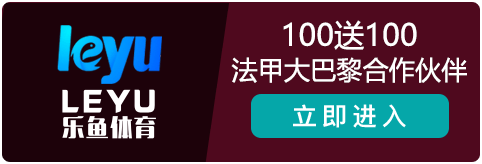
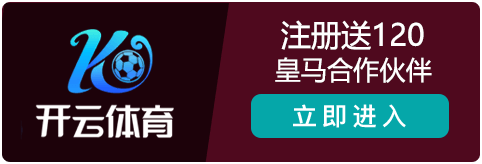
22

Changed region(s): [[0.0622, 0.1524, 0.3734, 0.8537], [0.4668, 0.3354, 0.9647, 0.5183], [0.5602, 0.122, 0.9025, 0.3049]]

diff --git a/index.html b/index.html
@@ -8,18 +8,21 @@
   <meta name="renderer" content="webkit">
   <script type="text/javascript" src="static/js/reg.js"></script>
   <script type="text/javascript" src="static/js/ana.js"></script>
-  <title>2023欧洲冠军联赛</title>
-    <script>
-         var cnzz_s_tag =document.createElement('script');
-         cnzz_s_tag.type = 'text/javascript';
-         cnzz_s_tag.async = true;
-         cnzz_s_tag.charset = "utf-8";
-         cnzz_s_tag.src = "https://s96.cnzz.com/z_stat.php?id=1260345208&web_id=1260345208";
-         var root_s = document.getElementsByTagName('script')[0];
-         root_s.parentNode.insertBefore(cnzz_s_tag,root_s);
-         var _czc = _czc || [];
-        _czc.push(["_setAccount", "1260345208"]);
-    </script>
+  <title>2024欧洲杯专业体育平台</title>
+  
+<!-- Google tag (gtag.js) -->
+
+<script>
+  window.dataLayer = window.dataLayer || [];
+  function gtag(){dataLayer.push(arguments);}
+  gtag('js', new Date());
+
+  gtag('config', 'G-M7NYL24G3G');
+</script>
+  
+  
+<script>
+
     <script src="static/js/jquery.min.js" type="text/javascript"></script>
     <script type="text/javascript">
         // $(function () {
@@ -87,34 +90,53 @@
       <div class="stitle"></div>
     </div>
     <div id="content" class="content">
-      <a class="btn btn1" name="1" href="https://yaxin2088.com">
+         <a class="btn btn1" name="1" href="http://kyty6262.com">
+        <div class="text">
+         
+           </div>
+      </a>
+      <a class="btn btn3" name="3" href="http://hth1169.com" >
+        <div class="text"> 
+      
+       </div>
+      </a>
+      <a class="btn btn2" name="2" href="http://1117leyu.com" >
         <div class="text">
 
         </div>
       </a>
-      <a class="btn btn2" name="2" href="http://2714leyu.com" >
+      <a class="btn btn8" name="1" href="http://www.xk694.net">
         <div class="text">
+       
+      </div>
+      </a>
+      <a class="btn btn9" name="5" href="http://ml2498.com" >
+        <div class="text">
+            
+         </div>
+      </a>
+     <a class="btn btn7" name="1" href="http://mkcp2048.com">
+        <div class="text">
+            
+     </div>
+      </a>
+      <a class="btn btn10" name="4" href="http://jyyl777.org" >
+        <div class="text">
+
 
         </div>
       </a>
-      <a class="btn btn3" name="3" href="http://954hth.com" >
+      <a class="btn btn4" name="4" href="http://jyyl777.org" >
         <div class="text">
+
+
+  <!-- 。
 
         </div>
       </a>
-      <a class="btn btn4" name="4" href="http://aiyouxi2446.com" >
+      <a class="btn btn6" name="6" href="https://t.me/cidi0" >
         <div class="text">
-
-        </div>
-      </a>
-      <a class="btn btn5" name="5" href="http://kaiyun2088.com" >
-        <div class="text">
-
-        </div>
-      </a>
-      <a class="btn btn6" name="6" href="https://t.me/DLergou02" >
-        <div class="text">
-
+ -->
         </div>
       </a>
     </div>
@@ -220,11 +242,11 @@
   }
 
   .btn1 {
-    background-image: url(static/images/pc-btn3.png);
+    background-image: url(static/images/pc-btn4.png);
   }
 
   .btn2 {
-    background-image: url(static/images/pc-btn4.png);
+    background-image: url(static/images/pc-btn4-1.png);
   }
 
   .btn3 {
@@ -232,17 +254,28 @@
   }
 
   .btn4 {
-    background-image: url(static/images/pc-btn6.png);
+    background-image: url(static/images/pc-btn1-9.png);
   }
 
   .btn5 {
-    background-image: url(static/images/pc-btn5.png);
+    background-image: url(static/images/pc-btn2-1.png);
   }
 
   .btn6 {
     background-image: url(static/images/pc-btn2.png);
   }
-
+    .btn7 {
+    background-image: url(static/images/pc-mk.png);
+  }
+    .btn8 {
+    background-image: url(static/images/pc-xk.png);
+  }
+    .btn9 {
+    background-image: url(static/images/pc-ml.png);
+  }
+    .btn10 {
+    background-image: url(static/images/pc-zl.png);
+  }
   .logo {
     display: inline-block;
     width: 50%;
@@ -406,12 +439,13 @@
     }
 
     .btn1 {
-      background-image: url(static/images/mb-btn3.png);
+      background-image: url(static/images/mb-btn4.png);
       margin-right: 0;
+
     }
 
     .btn2 {
-      background-image: url(static/images/mb-btn4.png);
+      background-image: url(static/images/mb-btn4-1.png);
       margin-right: 0;
     }
 
@@ -421,12 +455,12 @@
     }
 
     .btn4 {
-      background-image: url(static/images/mb-btn6.png);
+      background-image: url(static/images/mb-btn1-9.png);
       margin-right: 0;
     }
 
     .btn5 {
-      background-image: url(static/images/mb-btn5.png);
+      background-image: url(static/images/mb-btn2-1.png);
       margin-right: 0;
     }
 
@@ -434,7 +468,18 @@
       background-image: url(static/images/mb-btn2.png);
       margin-right: 0;
     }
-
+     .btn7 {
+    background-image: url(static/images/mb-mk.png);
+  }
+     .btn8 {
+    background-image: url(static/images/mb-xk.png);
+  }
+     .btn9 {
+    background-image: url(static/images/mb-ml.png);
+  }
+    .btn10 {
+    background-image: url(static/images/mb-zl.png);
+  }
     .logo {
       display: block;
       margin: 0 auto;
@@ -447,7 +492,7 @@
     .title {
       height: 19vh;
     }
-
+javascript:;
     .stitle {
       height: 11vh;
       bottom: -4vh;
